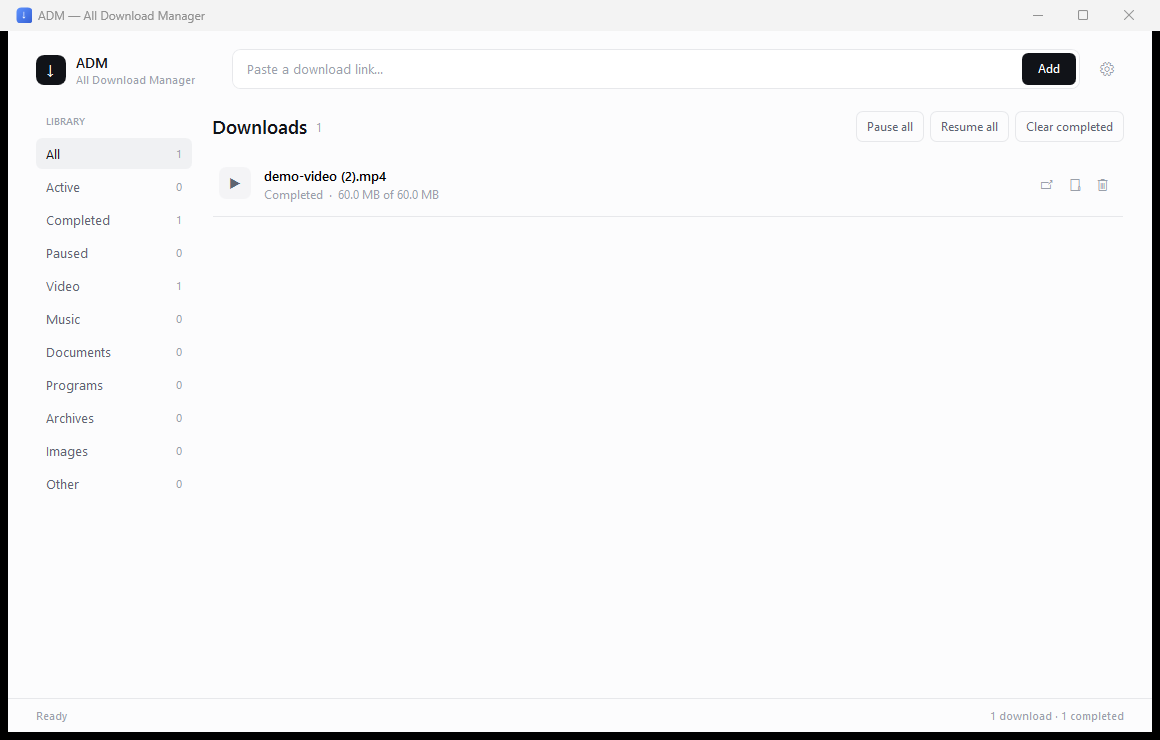
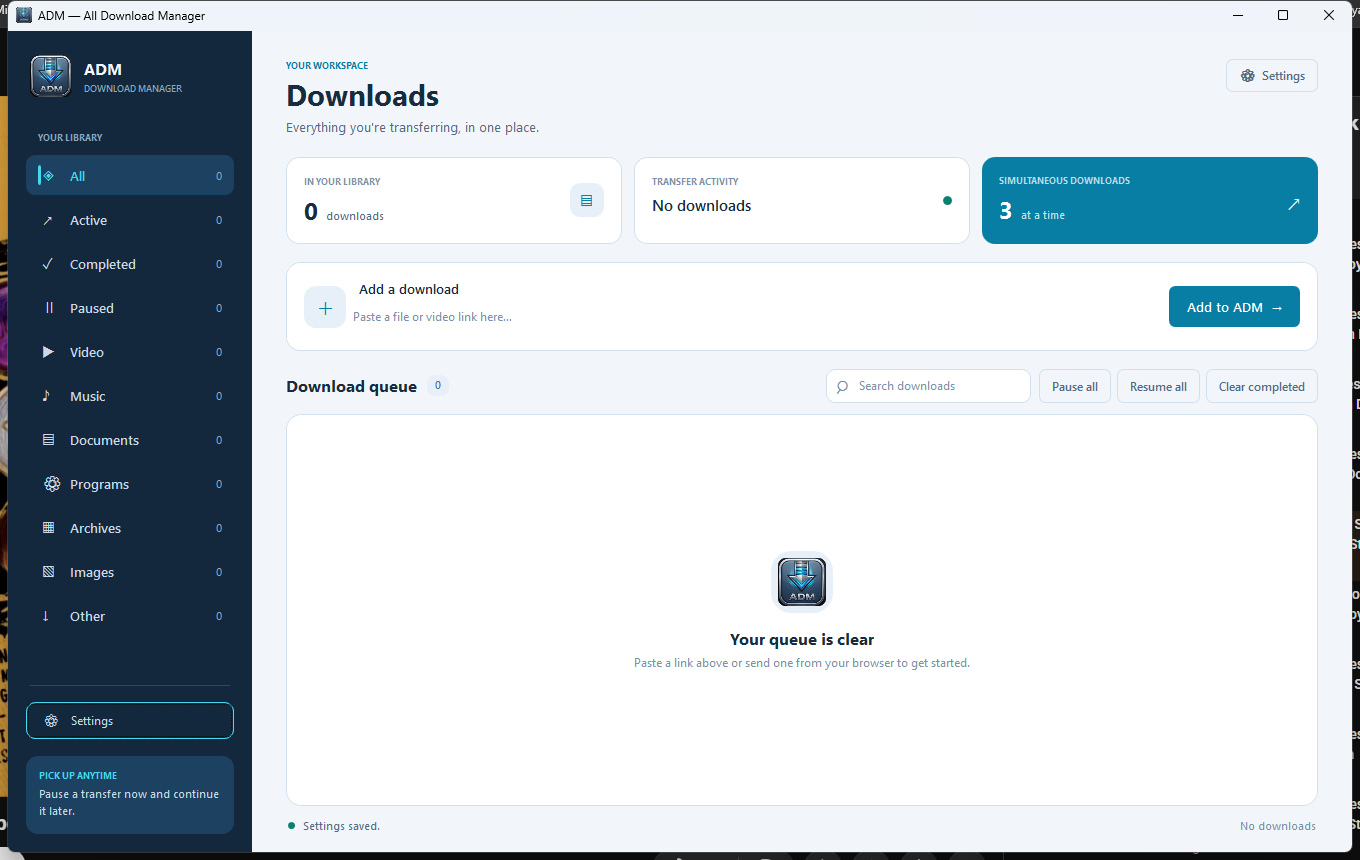
docs: publish ADM 1.2.0 workspace and release guidance

diff --git a/README.md b/README.md
@@ -1,13 +1,15 @@
 # ADM — All Download Manager
 
 A Windows download manager built with **.NET 8** and **WPF**, with a segmented
-HTTP engine, a browser extension, and a per-user installer. It is an IDM-style
+HTTP engine, a browser extension, and a Windows installer. It is an IDM-style
 desktop app: multiple connections per file, pause/resume across restarts,
 download queues, a speed limiter, and browser download capture. Video and audio
 pages are handled by the bundled **yt-dlp** engine, so YouTube and many other
 sites download as complete MP4/MKV/MP3 files instead of separate streams.
 
-![ADM minimal UI](docs/screenshot.png)
+![ADM 1.2.0 workspace](docs/screenshot.png)
+
+*ADM 1.2.0 workspace with the final silver, navy and cyan ADM brand.*
 
 ## Features
 
@@ -139,8 +141,8 @@ Output goes to `artifacts\publish\` (`app`, `native`, `extension`) and
 `artifacts\installer\`. The build copies `yt-dlp.exe`, `ffmpeg.exe`, and
 `ffprobe.exe` into `artifacts\publish\app\tools\`; missing tools are downloaded
 into `vendor\` first, so the installed app does not depend on PATH. The installer
-is per-user (`PrivilegesRequired=lowest`), so it does not need administrator
-rights. The bundled ffmpeg build adds roughly 200 MB to the published folder.
+uses the folder selected during setup. The bundled ffmpeg build adds roughly
+200 MB to the published folder.
 
 The installer is produced by [Inno Setup 6](https://jrsoftware.org/isinfo.php).
 `build.ps1` looks for `ISCC.exe` in the per-user and per-machine locations; when
@@ -189,7 +191,8 @@ Temporary add-ons last until Firefox closes; permanent installation requires
 Mozilla signing.
 
 See [`extension/README.md`](extension/README.md) for extension behaviour and
-development details.
+development details. ADM 1.2.0 release notes and production checks are in
+[`docs/RELEASE_CHECKLIST.md`](docs/RELEASE_CHECKLIST.md).
 
 ## Project layout
 
@@ -297,7 +300,7 @@ Settings can be changed in the app (gear icon): folder, connections per
 download, simultaneous downloads, speed limit, auto-resume, start with Windows,
 delete confirmation, proxy and credentials, cookie header, clipboard monitor,
 disk-space check, duplicate and file-exists policies, retry policy, schedule,
-notifications, dark theme and the diagnostics log. The settings window also
+notifications, the ADM light theme and the diagnostics log. The settings window also
 reports whether yt-dlp and ffmpeg were found and can update yt-dlp.
 
 ### Closing the window

diff --git a/docs/RELEASE_CHECKLIST.md b/docs/RELEASE_CHECKLIST.md
@@ -4,6 +4,15 @@ Use this checklist for each Windows release. The product version comes from
 `Directory.Build.props`; `build.ps1` passes it to Inno Setup and checks required
 publish files before attempting to package them.
 
+## ADM 1.2.0 release record
+
+- Final installer: `artifacts\installer\ADM-Setup-1.2.0.exe`
+- Runtime: Windows x64, self-contained single-file desktop application
+- Branding: final ADM logo with transparent rounded corners in the app, tray,
+  shortcuts, installer and browser extension
+- Validation: engine harness passed; publish and Inno Setup packaging succeeded
+- Signing: unsigned
+
 ## Build and package
 
 - [ ] Start from a clean checkout and confirm the intended version in `Directory.Build.props`.
@@ -28,6 +37,12 @@ not replace the fresh-install check below.
 - [ ] Repeat the popup handoff check in Firefox using `manifest.firefox.json` as a temporary add-on.
 - [ ] Confirm failed handoff leaves the browser download available and the popup explains how to reconnect.
 - [ ] Uninstall ADM and confirm its per-user native host registrations are removed.
+
+### Branding check
+
+- [ ] Confirm the desktop and Start Menu shortcuts use `{app}\app.ico` after
+  install or update.
+- [ ] Confirm the taskbar, tray and application workspace show the final ADM logo.
 
 ## Release notes and support
 

diff --git a/docs/UPDATE_PLAN.md b/docs/UPDATE_PLAN.md
@@ -16,6 +16,8 @@ is an initial design sketch and predates much of the current implementation.
 - [x] Summarize runtime mode, version, and signing outcome after publishing.
 - [x] Add a repeatable build, install, browser, and uninstall checklist in
   [`RELEASE_CHECKLIST.md`](RELEASE_CHECKLIST.md).
+- [x] Apply the final ADM logo and its silver, navy and cyan light theme across
+  the desktop app, installer and browser extension.
 - [ ] Run the checklist on clean Windows 10 and Windows 11 systems before a public release.
 
 ### Download recovery and data integrity
@@ -35,7 +37,7 @@ is an initial design sketch and predates much of the current implementation.
 ### Download workflow
 
 - [x] Use status colors for row state and expose the full error as a tooltip/help text when the row is truncated.
-- [ ] Check keyboard navigation, high-DPI scaling, dark theme contrast, and narrow layouts on Windows.
+- [ ] Check keyboard navigation, high-DPI scaling, light-theme contrast, and narrow layouts on Windows.
 
 ### Diagnostics and maintenance
 

diff --git a/extension/README.md b/extension/README.md
@@ -9,8 +9,9 @@ native messaging host.
    for Chrome, Edge, Brave and Chromium (per-user registry, no admin needed).
 2. Open `chrome://extensions` (or `edge://extensions`).
 3. Enable **Developer mode**.
-4. Click **Load unpacked** and select this `extension` folder (normally
-   `%LOCALAPPDATA%\Programs\ADM\extension`).
+4. Click **Load unpacked** and select the installed `extension` folder under
+   the ADM installation directory (for the default installed build:
+   `C:\Program Files\ADM\extension`).
 5. Open the extension. The header should show **ADM ready**. If it shows
    **ADM not running**, click **Open ADM** to start the desktop app. If it shows
    **Extension not connected**, reinstall ADM or register the host with

diff --git a/idm_clone_master_architecture_development_plan.md b/idm_clone_master_architecture_development_plan.md
@@ -2,7 +2,8 @@
 
 > **Historical design sketch:** ADM has since grown beyond the implementation
 > phases described here. Use [`docs/UPDATE_PLAN.md`](docs/UPDATE_PLAN.md) for the
-> current work plan and [`README.md`](README.md) for the implemented features.
+> current work plan, [`docs/FEATURE_MATRIX.md`](docs/FEATURE_MATRIX.md) for the
+> capability audit, and [`README.md`](README.md) for the current ADM 1.2.0 build.
 
 ## 1. Project Overview
 The goal is to build a high-performance download manager that accelerates downloads by splitting files into dynamic segments, features a modern UI, integrates seamlessly with browsers to capture download links (and media), and is packaged as a standalone `.exe` installer.

diff --git a/docs/FEATURE_MATRIX.md b/docs/FEATURE_MATRIX.md
@@ -3,6 +3,9 @@
 ADM 1.2.0 implements the download-manager features used in its supported
 Windows workflow.
 
+The published workspace image is [`screenshot.png`](screenshot.png). It shows
+the final ADM light theme and logo used by this release.
+
 | Capability | ADM 1.2.0 |
 | --- | --- |
 | Segmented HTTP/HTTPS downloads | Implemented: parallel ranges, dynamic splitting, resume and fallback for servers without ranges. |
